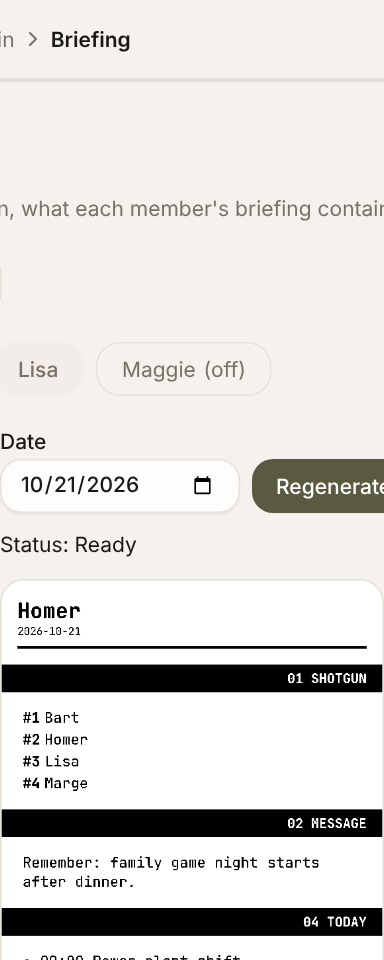
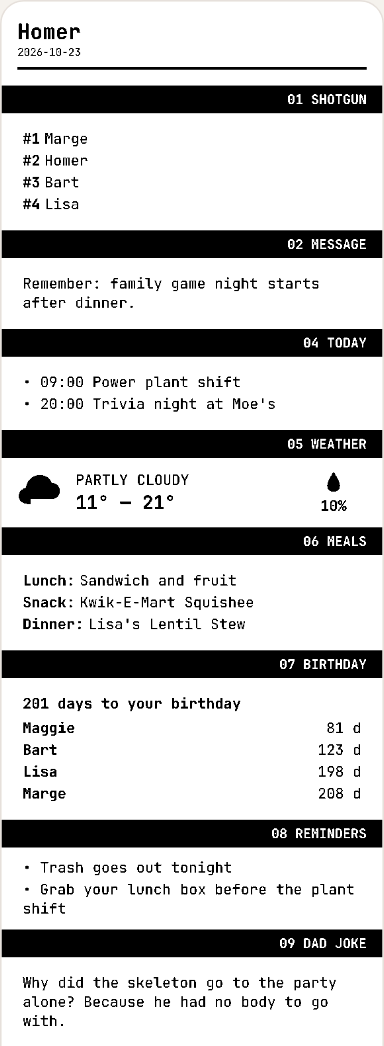
docs(readme): lead the features with the printed daily briefing and a screenshot grid (#71)
* docs(readme): lead the features with the printed daily briefing and a screenshot grid

* docs(screenshots): crop the briefing slip preview between blocks

The partial capture clipped viewport coordinates against the full page, so it showed
the admin page instead of the slip; it now scrolls the slip into view and ends the cut
at the last block-title band above the height limit.

* docs(readme): note which briefing fun blocks are English-only

diff --git a/README.md b/README.md
@@ -15,28 +15,66 @@ operator configuration; synthetic test success does not establish their availabi
 
 ## Features
 
-**For the family:**
+### A printed morning briefing for every child
 
-- **Home dashboard:** today's agenda, chores, meals and weather at a glance.
-- **Routines & chores:** routines grouped by part of the day, emoji chores assigned to each child on chosen weekdays, and streaks.
-- **Meals & recipes:** a recipe catalogue, repeating weekly plans and one-off meals.
-- **Daily briefing, printed:** a personal paper slip for each child every morning, sent from the browser to a thermal printer over Bluetooth.
-- **Calendar:** local events plus ICS feeds, with automatic member assignment and emoji highlights.
-- **Reminders & daily messages**, **spoken time announcements**, **network device blocking (UniFi)** and **weather**.
+<img src="docs/images/features/briefing-preview-top.png" alt="Top of a printed daily briefing slip" width="260" align="right">
 
-**For whoever runs it:**
+Every morning each child can get a **personal paper slip** from a cheap Bluetooth
+thermal printer next to the tablet, to take to the breakfast table. No screen needed.
 
-- Plugins you turn on or off.
-- Closed-by-default kiosk security.
-- Backups and restore.
-- Docker or one-click cloud demos.
-- English and Spanish.
+- **Their day:** events, meals, weather, reminders, a message from a parent, birthday
+  countdowns and chore streaks.
+- **The fun part:** dad joke, word of the day, animal and number facts, on this day,
+  trivia, a riddle printed upside down, would you rather, a word search and a drawing
+  prompt. More than 20 block types, in English or Spanish (the dad joke, word of the day,
+  trivia, riddle and word search are English-only for now).
+- **You decide** who gets one, on which weekdays and with which blocks. Each slip is a
+  frozen snapshot, and it can print by itself as soon as the morning chores are done.
+- **No print server or drivers:** the kiosk browser sends ESC/POS straight to the
+  printer over Web Bluetooth.
 
-**For developers:**
+[See a full slip](docs/images/features/briefing-preview.png) ·
+[how it works](docs/guide/README.md#4-daily-briefing-printed-on-a-thermal-printer)
 
-- An API-first design: the UI uses the same documented HTTP API you can script against. See the [API guide](docs/api/README.md) and the [API reference](https://petstore.swagger.io/?url=https://raw.githubusercontent.com/diegomarino/marplanner/main/docs/api/openapi.json).
+<br clear="right">
 
-Take the [feature tour](docs/guide/README.md) for screenshots, or browse the [feature specs](docs/features/README.md).
+### On the wall all day
+
+<table>
+  <tr>
+    <td width="50%" valign="top">
+      <a href="docs/guide/README.md#2-routines-and-chores-with-streaks"><img src="docs/images/features/chores-board.png" alt="Chores board"></a>
+      <br><b>Routines &amp; chores.</b> Emoji chores grouped by part of the day, assigned to each child on chosen weekdays, with streaks.
+    </td>
+    <td width="50%" valign="top">
+      <a href="docs/guide/README.md#3-meals-and-recipes"><img src="docs/images/features/meals-board.png" alt="Meals board"></a>
+      <br><b>Meals &amp; recipes.</b> A recipe catalogue, repeating weekly plans and one-off meals, merged into one menu.
+    </td>
+  </tr>
+  <tr>
+    <td width="50%" valign="top">
+      <a href="docs/guide/README.md#5-shared-calendar-and-ics-feeds"><img src="docs/images/features/calendar-month.png" alt="Calendar month view"></a>
+      <br><b>Calendar.</b> Local events plus ICS feeds, assigned to members automatically and decorated with emoji.
+    </td>
+    <td width="50%" valign="top">
+      <a href="docs/guide/README.md#10-plugins-turn-features-on-and-off"><img src="docs/images/features/admin-overview.png" alt="Admin overview"></a>
+      <br><b>Admin, behind a PIN.</b> Members, content, integrations and recovery, with every optional feature as a plugin.
+    </td>
+  </tr>
+</table>
+
+Also: **reminders and daily messages**, **spoken time announcements**, **weather**
+(Open-Meteo, no API key) and **network device blocking** for UniFi.
+
+**For whoever runs it:** plugins you turn on or off, closed-by-default kiosk
+security, backups and restore, Docker or one-click cloud demos, English and Spanish.
+
+**For developers:** an API-first design: the UI uses the same documented HTTP API you
+can script against. See the [API guide](docs/api/README.md) and the
+[API reference](https://petstore.swagger.io/?url=https://raw.githubusercontent.com/diegomarino/marplanner/main/docs/api/openapi.json).
+
+Take the [feature tour](docs/guide/README.md) for every screen, or browse the
+[feature specs](docs/features/README.md).
 
 ## Try it in your own cloud
 
